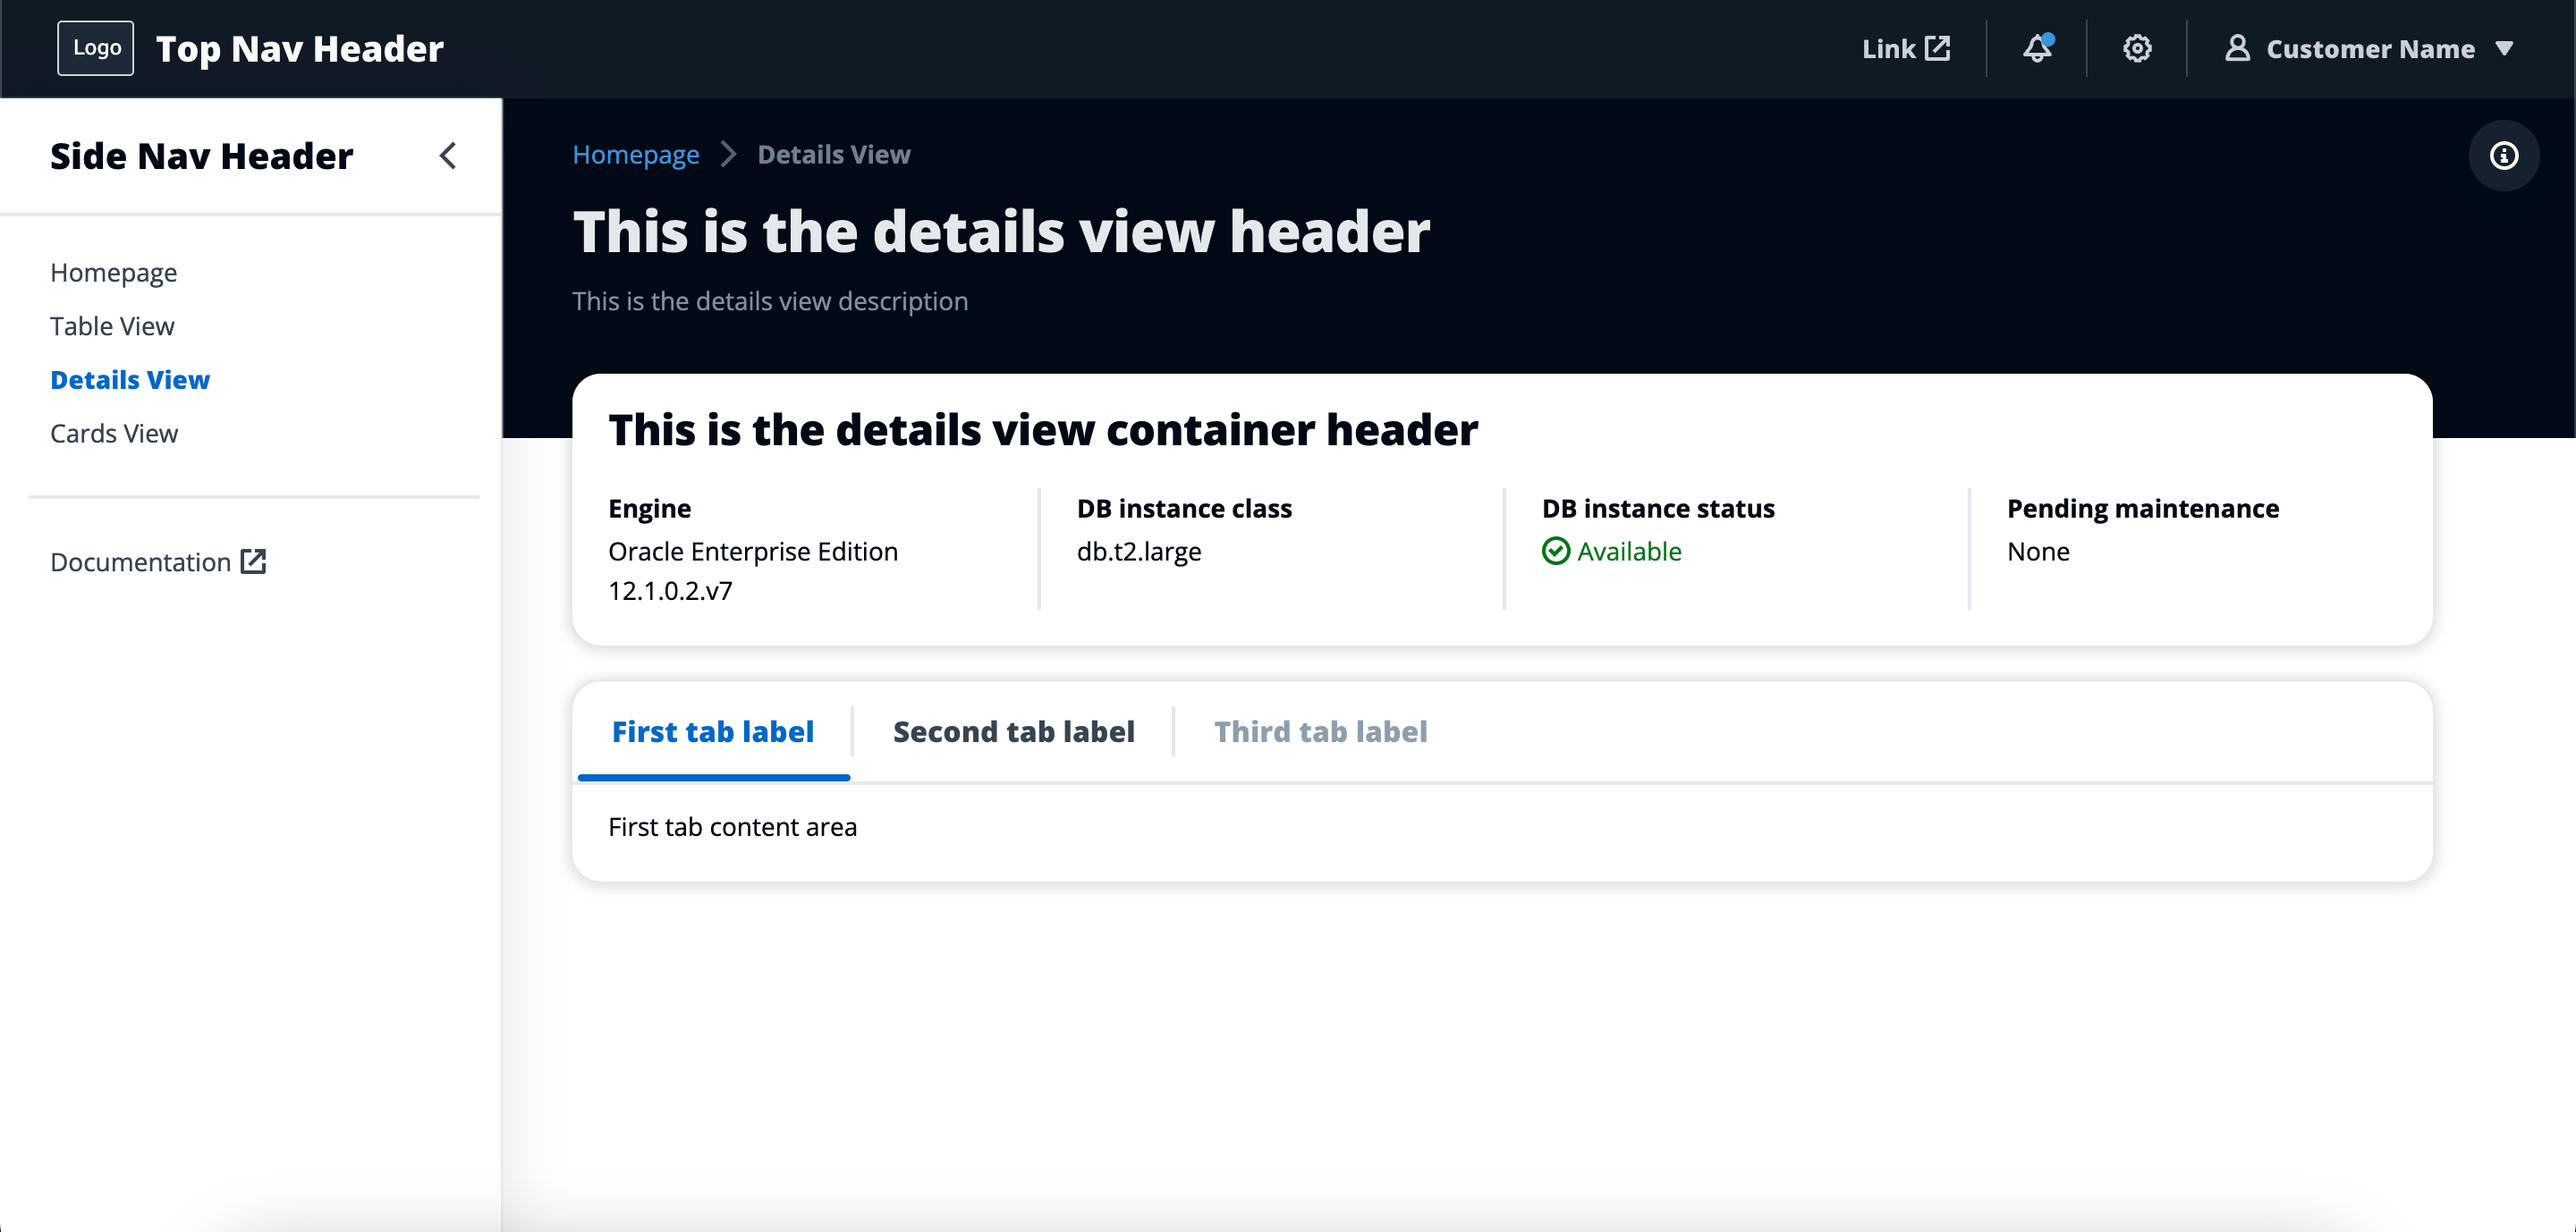
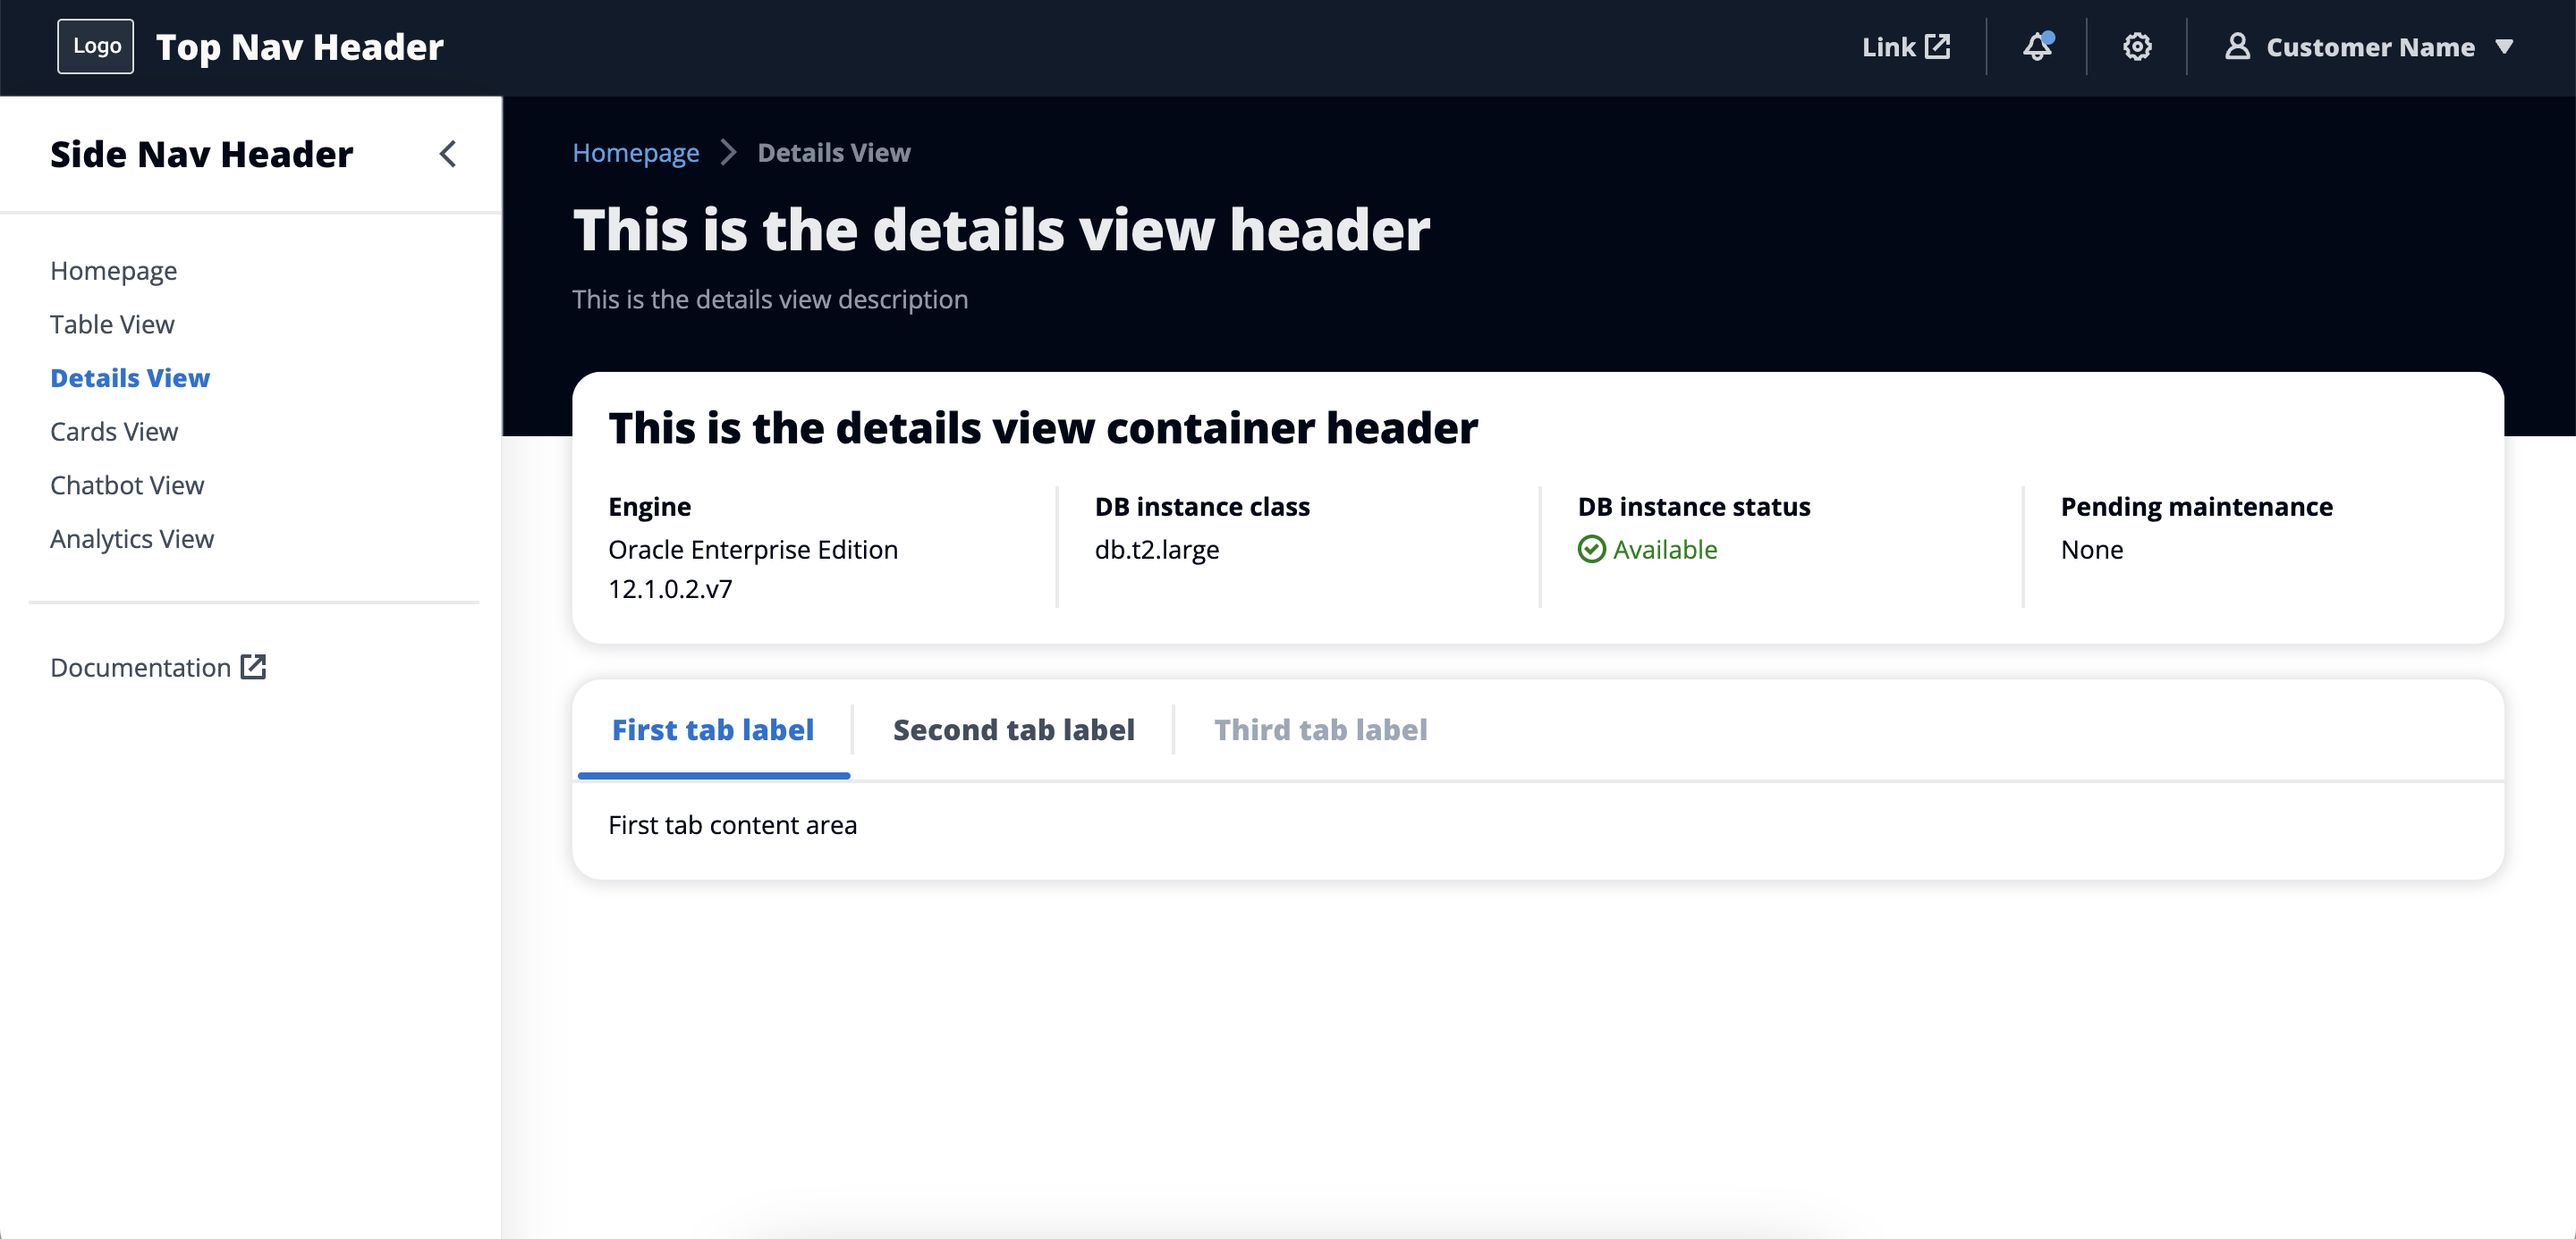
cleaning up

diff --git a/src/pages/DetailsView/DetailsView.jsx b/src/pages/DetailsView/DetailsView.jsx
@@ -1,12 +1,6 @@
-import logo from '../../logo.svg';
 import '../../App.css';
 import {
-  Button,
   AppLayout,
-  Header,
-  ColumnLayout,
-  Box,
-  StatusIndicator,
   SpaceBetween,
   Tabs,
   BreadcrumbGroup
@@ -17,9 +11,7 @@ import ContentLayout from "../../components/ContentLayout";
 import {
   pageHeader,
   pageDescription,
-  alert,
   containerHeader,
-  containerDescription,
   containerContent,
   tabsContent,
   breadcrumbGroup
@@ -29,7 +21,6 @@ import {
   sideNavPages
 } from "../../components/SideNavigation/sidenav-config";
 import { topNavHeader, topNavMenu } from "../../components/TopNavigation/topnav-config"
-import Container from "../../components/Containers/ColumnContainer"
 
 // Styles
 import "@cloudscape-design/global-styles/index.css"
@@ -41,6 +32,7 @@ function DetailsPage() {
       topNavHeader={topNavHeader}
       topNavMenu={topNavMenu}/>
     <AppLayout
+      toolsHide="true"
       breadcrumbs={<BreadcrumbGroup
         items={breadcrumbGroup} />}
       navigation={<SideNavigation

diff --git a/src/pages/CardsView/CardsView.jsx b/src/pages/CardsView/CardsView.jsx
@@ -1,15 +1,7 @@
-import logo from '../../logo.svg';
 import '../../App.css';
 import {
-  Button,
   AppLayout,
-  Container,
-  Header,
-  ColumnLayout,
-  Box,
-  StatusIndicator,
   SpaceBetween,
-  Tabs,
   BreadcrumbGroup
 } from "@cloudscape-design/components"
 import TopNavigation from "../../components/TopNavigation/TopNav";
@@ -18,10 +10,7 @@ import ContentLayout from "../../components/ContentLayout";
 import {
   pageHeader,
   pageDescription,
-  alert,
   containerHeader,
-  containerDescription,
-  containerContent,
   breadcrumbGroup,
   cardItems,
   cardDefinition,
@@ -44,6 +33,7 @@ function CardsView() {
       topNavHeader={topNavHeader}
       topNavMenu={topNavMenu}/>
     <AppLayout
+      toolsHide="true"
       breadcrumbs={<BreadcrumbGroup
         items={breadcrumbGroup} />}
       navigation={<SideNavigation

diff --git a/src/pages/Homepage/Homepage.jsx b/src/pages/Homepage/Homepage.jsx
@@ -1,7 +1,5 @@
-import logo from '../../logo.svg';
 import '../../App.css';
 import {
-  Button,
   AppLayout
 } from "@cloudscape-design/components"
 import TopNavigation from "../../components/TopNavigation/TopNav";
@@ -20,7 +18,6 @@ import {
   sideNavPages
 } from "../../components/SideNavigation/sidenav-config";
 import { topNavHeader, topNavMenu } from "../../components/TopNavigation/topnav-config"
-import Container from "../../components/Containers/Container";
 
 // Styles
 import "@cloudscape-design/global-styles/index.css"
@@ -32,6 +29,7 @@ function Homepage() {
       topNavHeader={topNavHeader}
       topNavMenu={topNavMenu}/>
     <AppLayout
+      toolsHide="true"
       navigation={<SideNavigation
         sideNavHeader={sideNavHeader}
         sideNavPages={sideNavPages}/>}

diff --git a/src/pages/TableView/TableView.jsx b/src/pages/TableView/TableView.jsx
@@ -1,14 +1,10 @@
-import logo from '../../logo.svg';
 import '../../App.css';
 import {
-  Button,
   AppLayout,
-  Header,
   BreadcrumbGroup
  } from "@cloudscape-design/components"
 import TopNavigation from "../../components/TopNavigation/TopNav";
 import SideNavigation from "../../components/SideNavigation/SideNav";
-import ContentLayout from "../../components/ContentLayout";
 import {
   tableHeader,
   filterPlaceholder,
@@ -37,6 +33,7 @@ function TableView() {
       topNavHeader={topNavHeader}
       topNavMenu={topNavMenu}/>
     <AppLayout
+      toolsHide="true"
       breadcrumbs={<BreadcrumbGroup
         items={breadcrumbGroup} />}
       navigation={<SideNavigation

diff --git a/src/services/postAPI.js b/src/services/postAPI.js
@@ -1,10 +1,10 @@
 import { POST_URL } from "../config.js";
 
 // Send inputs to API Gateway
-const handleSubmit = async (inputPrompt) => {
+const handleSubmit = async (inputPrompt, modelName) => {
     try {
         const prompt = inputPrompt
-        const model_name = "anthropic.claude-instant-v1"
+        const model_name = modelName
         console.log(prompt)
         
         const response = await fetch(POST_URL, {

diff --git a/src/pages/TableView/tableview-config.jsx b/src/pages/TableView/tableview-config.jsx
@@ -1,8 +1,8 @@
 // Table Header
-export const tableHeader = "Table Header"
+export const tableHeader = "This is the table view header"
 
 // Table Filter Placeholder
-export const filterPlaceholder = "What are you looking for?"
+export const filterPlaceholder = "This is the filtering placeholder"
 
 // Column Definitions
 export const columnDefinitions = [

diff --git a/src/App.js b/src/App.js
@@ -16,7 +16,7 @@ import "@cloudscape-design/global-styles/index.css"
 function App() {
   return (
     <div>
-    <Router basename={window.location.pathname || ''}>
+    <Router>
       <Routes>
         <Route exact path="/" element={<Homepage />} />
         <Route path="/tableview" element={<TableView />} />

diff --git a/src/pages/AnalyticsView/analyticsview-config.jsx b/src/pages/AnalyticsView/analyticsview-config.jsx
@@ -1,5 +1,5 @@
 // Page Header
-export const pageHeader = "Analytics View"
+export const pageHeader = "This is the analytics view header"
 
 // Description
 export const pageDescription = "This is the analytics view description"

diff --git a/src/pages/Homepage/homepage-config.jsx b/src/pages/Homepage/homepage-config.jsx
@@ -1,9 +1,6 @@
 // Page Header
 export const pageHeader = "This is the homepage header"
 
-// Info - leave out for now
-
-
 // Description
 export const pageDescription = "This is the homepage description"
 

diff --git a/src/pages/CardsView/cardsview-config.jsx b/src/pages/CardsView/cardsview-config.jsx
@@ -83,4 +83,4 @@ export const cardItems = [
 ]
 
 // Filtering Placeholder
-export const filteringPlaceholder = "Find resources"
+export const filteringPlaceholder = "This is the filtering placeholder"

diff --git a/README.md b/README.md
@@ -1,33 +1,40 @@
 # WebUI Starter Kit
 
-WebUI Starter Kit is a build asset for AWS Partner Solution Factory. It provides modular templates with low-code, configurable files for building web applications connected to AWS services. It is a self-service tool intended to reduce development effort for partners and accelerate completion of the PSF Build Phase.
+WebUI Starter Kit is a build asset for AWS Solution Building Enablement (SBE). It provides modular templates with low-code, configurable files for building web applications connected to AWS services. It is a self-service tool intended to reduce development effort for partners and accelerate completion of the Design & Build Phase of SBE.
 
 ## How it works
 
-WebUI Starter Kit leverages the Cloudscape Design System and AWS APIs to generate pre-built, configurable templates for web applications. Users define the application’s structure by choosing from a set of page types (e.g., Homepage, Table view, Card view), and then Starter Kit generates a React application with the pages chosen. For each page, the Starter Kit generates an index file and a configuration file. The configuration file enables users with limited development experience to update static data (e.g., headers) and define API calls for sending and receiving dynamic application data (e.g., database query results). Because the templates are modular, users can include or omit page types according to the needs of the particular application.
+WebUI Starter Kit leverages the Cloudscape Design System to generate pre-built, configurable templates for React web applications. The Starter Kit includes six page types (Homepage, Table View, Details View, Cards View, Chatbot View, and Analytics View) which users can then update and configure for their own use case. For each page, the Starter Kit includes an index file and a configuration file. The configuration file enables users with limited development experience to update static data (e.g., headers) and define API calls for sending and receiving dynamic application data (e.g., database query results). Because the templates are modular, users can include or omit page types according to the needs of the particular application.
 
-Starter Kit's ready-made web applications provide clean and consistent branding across PSF solutions, and give clear, prescriptive guidance on how to start developing and delivering product-centric solutions to customers. Because each configuration file defines a clear set of parameters for customization, the templates are accessible for teams with varying levels of technical depth and require minimal time for onboarding and enablement.
+Starter Kit's ready-made web applications provide clean and consistent branding across SBE solutions, and give clear, prescriptive guidance on how to start developing and delivering product-centric solutions to customers. Because each configuration file defines a clear set of parameters for customization, the templates are accessible for teams with varying levels of technical depth and require minimal time for onboarding and enablement.
 
 ## Getting started
+Clone this repository, install dependencies (`node_modules`), and start the application
+`gh repo clone aws-samples/webui-starter-kit`
 `npm i` <br>
 `npm start` <br>
 App should be running on http://localhost:3000/
 
+> Note that you must have Node and npm installed in order to run this application
+
 ## User flow
 
-**1. User identifies the structure of app they want to build, for example:**
+**1. User clones repository and runs the application (see "Getting Started"):**
 - Homepage
 - Table View
 - Details View
+- Cards View
+- Chatbot View
+- Analytics View
 
-**2. Template is generated with 2 files for each page:**
-- `Page.jsx` – contains layout and components for the page
-- `page-config.jsx` – contains customizable configuration for `Page.jsx`
+**2. Template includes a folder for each page (e.g., `Homepage`), each of which contains two files:**
+- `Homepage.jsx` – contains layout and components for the page
+- `homepage-config.jsx` – contains customizable configuration for `Homepage.jsx`
 
-**3. User updates `page-config.jsx` with:**
+**3. User updates `homepage-config.jsx` with:**
 - Static data (labels, headers, etc.)
 ```
-<h1> Solution Name </h1>
+export const pageHeader = "This is the new homepage header"
 ```
 - Props and attributes (select options, links, etc.)
 
@@ -61,3 +68,9 @@ export const PRICE_CLASS_OPTIONS = [
 
 ### Cards View
 ![CardsView](resources/images/CardsView.png)
+
+### Chatbot View
+![ChatbotView](resources/images/ChatbotView.png)
+
+### Analytics View
+![AnalyticsView](resources/images/AnalyticsView.png)
